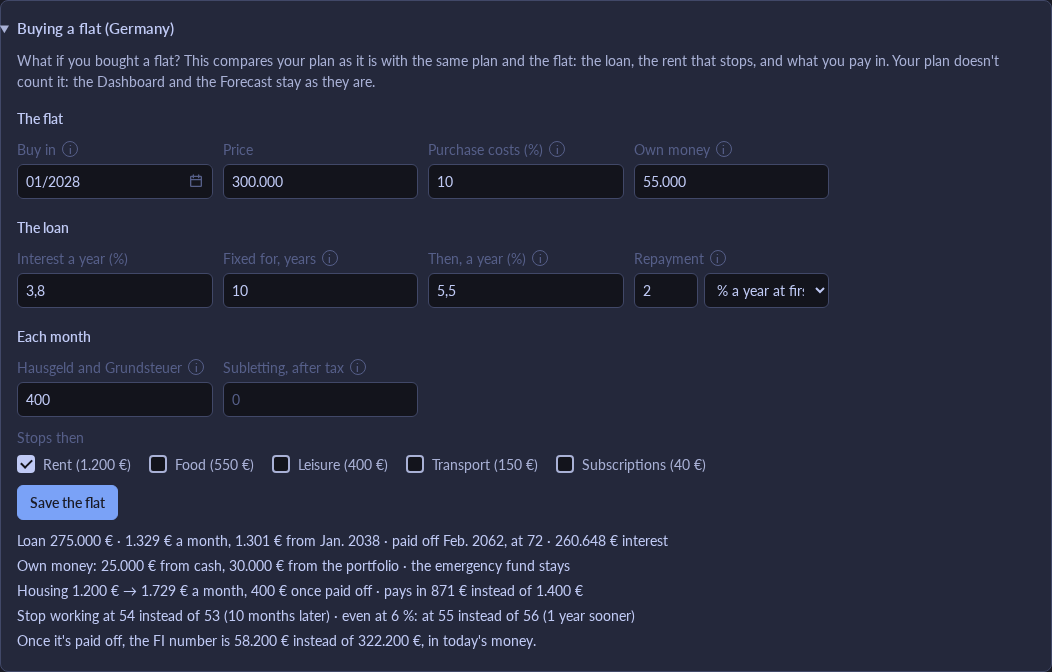
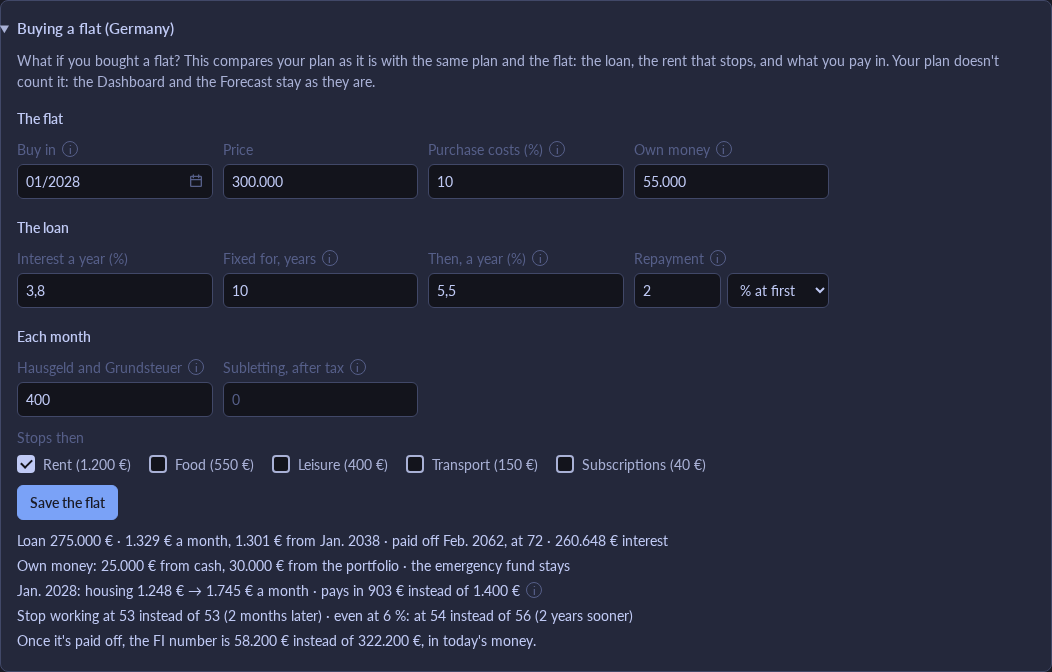
Leave out an ended choice that now starts at retirement, shorten % at first

Changed region(s): [[0.0, 0.875, 0.6084, 0.9375], [0.6388, 0.4062, 0.7605, 0.4688]]

diff --git a/README.md b/README.md
@@ -263,7 +263,7 @@ clears them.
   costs, less the own money.
 - **The loan**: the interest a year, fixed for a number of years (the
   Zinsbindung), then the interest after that (empty: the same). The
-  repayment is either **% a year at first** (the anfängliche Tilgung: the
+  repayment is either **% at first** (a year, the anfängliche Tilgung: the
   payment is the loan × (interest + repayment) ÷ 12, worked out again for
   what is left when the fixed years end), or an **amount a month**, the
   whole payment, the same until the loan is paid off. Either way the
